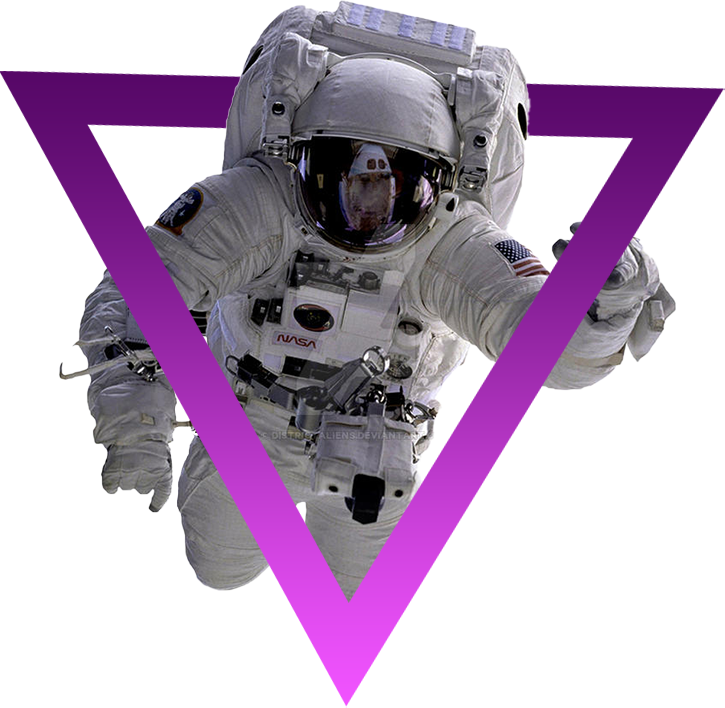
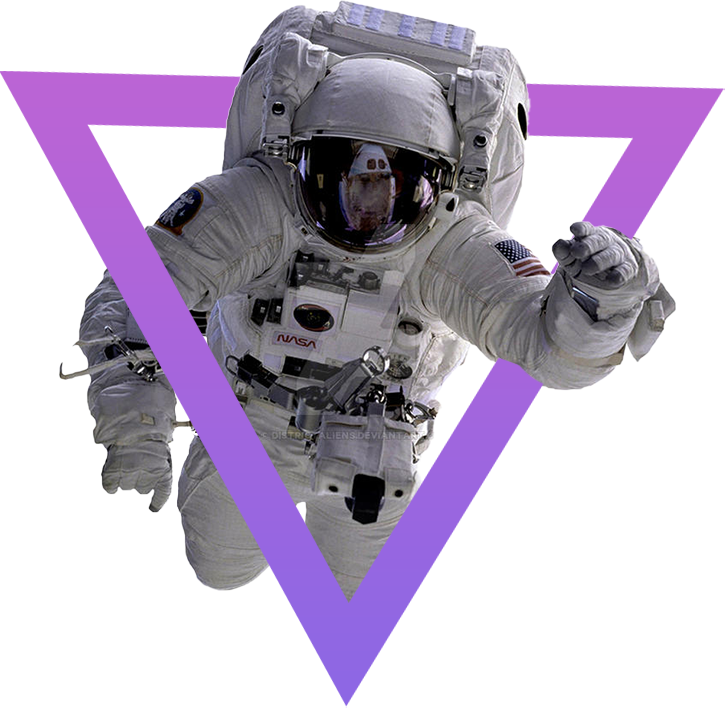
parte 2 landing page universe

Changed region(s): [[0.0, 0.0932, 1.0, 0.9944]]

diff --git a/src/pages/navbar/Navbar.jsx b/src/pages/navbar/Navbar.jsx
@@ -2,19 +2,17 @@ import React from 'react'
 import "./navbar.css"
 import { Icon } from '@iconify/react';
 import Astronaut from "../../assets/astronaut.png"
+import Astronaut2 from "../../assets/astronaut2.png"
+import Helmet from "../../assets/helmet.png"
 
 function Navbar() {
     return (
 
         <div className='background'>
-
-
-
         <section className='header'>
 
             <nav className='navbar'>
                 <h1>Logo</h1>
-
                 <ul className='items'>
                     <li><a>Home</a></li>
                     <li><a>Features</a></li>
@@ -24,10 +22,9 @@ function Navbar() {
                 </ul>
             </nav>
 
-
             <section className='slider'>
 
-                <div className='picture'><img  src={Astronaut}/></div>
+                 <div className='picture'><img  src={Astronaut}/></div> 
 
                 <article>
                     <h1> Space shuttle</h1>
@@ -93,30 +90,41 @@ function Navbar() {
                         <p>Lorem ipsum dolor sit amet. Eum nobis dolores eos nobis voluptas ab perferendis</p>
                     </article>
                 </div>
-
-
-
-
-
-
-
-
-
             </section>
-
-
-
-
-
-
-
-
-
-
-
-
-
         </section>
+
+        <section className='gallery'>
+            <div className='picture'>
+              <img  src={Astronaut2}/>
+            </div>
+           
+            <article>
+                <h3>Look our gallery</h3>
+                <p>Lorem ipsum dolor sit amet. At libero accusamus et quia sunt et obcaecati nesciunt est omnis omnis 33 voluptas ipsum. Eum maxime quas aut earum inventore nam aperiam voluptatem qui labore odio et internos consequatur. Rem numquam perspiciatis aut galisum internos vel libero rerum id perspiciatis magni. Est repudiandae sapiente aut alias assumenda aut ratione alias sed dolorem recusandae.</p>
+            </article>
+        </section>
+
+        <section className='gallery bg'>
+            <div className='opacity'>
+            <article>
+                <h3>What we think?</h3>
+                <p>Lorem ipsum dolor sit amet. At libero accusamus et quia sunt et obcaecati nesciunt est omnis omnis 33 voluptas ipsum. Eum maxime quas aut earum inventore nam aperiam voluptatem qui labore odio et internos consequatur. Rem numquam perspiciatis aut galisum internos vel libero rerum id perspiciatis magni. Est repudiandae sapiente aut alias assumenda aut ratione alias sed dolorem recusandae.</p>
+                <p>Lorem ipsum dolor sit amet. At libero accusamus et quia sunt et obcaecati nesciunt est omnis omnis 33 voluptas ipsum. Eum maxime quas aut earum inventore nam aperiam voluptatem qui labore odio et internos consequatur. Rem numquam perspiciatis aut galisum internos vel libero rerum id perspiciatis magni. Est repudiandae sapiente aut alias assumenda aut ratione alias sed dolorem recusandae.</p>
+            </article>
+
+            <div className='picture'>
+            <img  src={Helmet}/>
+            </div>
+            </div>
+        </section>
+
+
+
+
+
+
+
+
 
 
         </div>

diff --git a/src/pages/navbar/navbar.css b/src/pages/navbar/navbar.css
@@ -1,13 +1,14 @@
 @import url("https://cdn.jsdelivr.net/npm/bootstrap-icons@1.11.1/font/bootstrap-icons.css");
 
 :root {
-  --color-principal: purple;
+  --color-principal: #c97ede;
+  --color-text: #c8b8d5;
 }
 
 body {
   width: 100%;
   height: 100vh;
-  background-color: purple;
+  background-color: #3a315c;
   font-family: Arial, Helvetica, sans-serif;
 }
 
@@ -82,7 +83,7 @@ ul.items {
 }
 
 .slider h1 {
-  color: rgb(210, 96, 210);
+  color: var(--color-principal);
   font-size: 1rem;
   text-transform: uppercase;
 }
@@ -94,7 +95,7 @@ ul.items {
 }
 
 .slider p {
-  color: rgb(232, 232, 232);
+  color: var(--color-text);
   line-height: 1.3rem;
 }
 
@@ -149,7 +150,7 @@ span.icon:last-child {
 }
 
 .item-feature h3 {
-  color: rgb(209, 128, 236);
+  color: var(--color-principal);
   text-transform: uppercase;
 }
 
@@ -158,5 +159,61 @@ span.icon:last-child {
   text-transform: uppercase;
 }
 .item-feature p {
-  color: rgb(233, 233, 233);
+  color: var(--color-text);
+}
+
+.opacity {
+  position: relative;
+  background-color: #3a315ce8;
+  display: flex;
+}
+
+.gallery {
+  position: relative;
+  width: 100%;
+  height: auto;
+  background-color: #3a315c;
+  display: flex;
+  justify-content: center;
+  align-items: center;
+  flex-direction: row;
+}
+
+.gallery.bg {
+  background-color: rgba(132, 0, 255, 0.289);
+  background-image: url("../../assets/bg2.png");
+  background-size: cover;
+  background-repeat: no-repeat;
+}
+
+.picture{
+  width: 100%;
+}
+
+.opacity{
+  width: 100%;
+  display: flex;
+  justify-content: center;
+  align-items: center;
+  background-color: #3a315ce8;
+
+}
+
+
+.gallery article {
+  width: 100%;
+  line-height: 40px;
+  padding: 40px;
+
+}
+
+.gallery h3 {
+  color: var(--color-principal);
+  font-size: 3rem;
+  text-transform: uppercase;
+  text-shadow: 0 0 5px rgb(218, 80, 225), 0 0 10px rgba(252, 203, 255, 0.179);
+  padding: 40px 0px;
+}
+.gallery p {
+  color: var(--color-text);
 }
